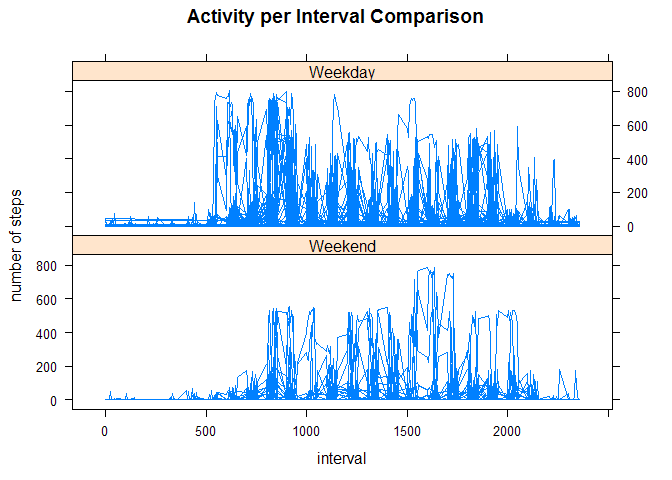
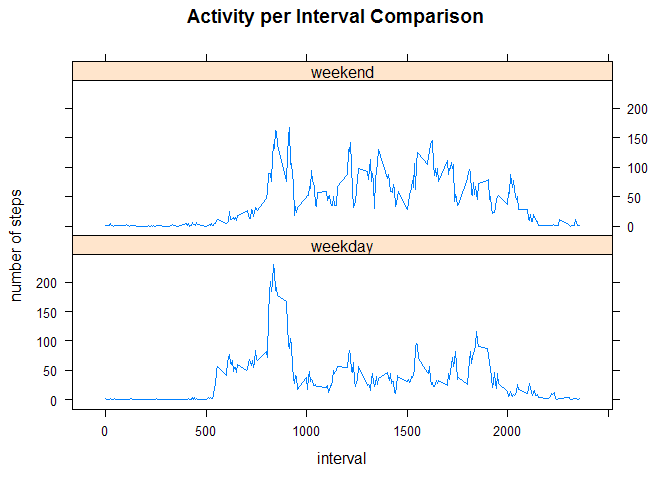
fixed an issue where my comparison chart was comparing all steps, not averages

diff --git a/PA1_template.html b/PA1_template.html
@@ -233,8 +233,19 @@ activity$day&lt;-factor((weekdays(activity$date) %in% Myweekdays), levels=c(FALS
 </ol>
 <pre class="r"><code>library(lattice)
 ## Create the graph
-xyplot(steps ~ interval | day, activity, type='l', layout=c(1,2), ylab=&quot;number of steps&quot;, main=&quot;Activity per Interval Comparison&quot;)</code></pre>
[1 lines of base64/hex data omitted]
+by_day_factor&lt;-split(activity, activity$day)
+group_factor&lt;-group_by(by_day_factor$Weekend, interval)
+group_factor2&lt;-group_by(by_day_factor$Weekday, interval)
+weekendTrend&lt;-summarize_each(group_factor, funs(mean(.)))
+weekdayTrend&lt;-summarize_each(group_factor2, funs(mean(.)))
+weekdayTrend$date&lt;-NULL
+weekdayTrend$day&lt;-&quot;weekday&quot;
+weekendTrend$date&lt;-NULL
+weekendTrend$day&lt;-&quot;weekend&quot;
+WeekFactorAvg&lt;-rbind(weekdayTrend, weekendTrend)
+WeekFactorAvg$day&lt;-as.factor(WeekFactorAvg$day)
+xyplot(steps ~ interval | day, WeekFactorAvg, type='l', layout=c(1,2), ylab=&quot;number of steps&quot;, main=&quot;Activity per Interval Comparison&quot;)</code></pre>
[1 lines of base64/hex data omitted]
 </div>
 
 

diff --git a/PA1_template.md b/PA1_template.md
@@ -143,7 +143,18 @@ activity$day<-factor((weekdays(activity$date) %in% Myweekdays), levels=c(FALSE, 
 ```r
 library(lattice)
 ## Create the graph
-xyplot(steps ~ interval | day, activity, type='l', layout=c(1,2), ylab="number of steps", main="Activity per Interval Comparison")
+by_day_factor<-split(activity, activity$day)
+group_factor<-group_by(by_day_factor$Weekend, interval)
+group_factor2<-group_by(by_day_factor$Weekday, interval)
+weekendTrend<-summarize_each(group_factor, funs(mean(.)))
+weekdayTrend<-summarize_each(group_factor2, funs(mean(.)))
+weekdayTrend$date<-NULL
+weekdayTrend$day<-"weekday"
+weekendTrend$date<-NULL
+weekendTrend$day<-"weekend"
+WeekFactorAvg<-rbind(weekdayTrend, weekendTrend)
+WeekFactorAvg$day<-as.factor(WeekFactorAvg$day)
+xyplot(steps ~ interval | day, WeekFactorAvg, type='l', layout=c(1,2), ylab="number of steps", main="Activity per Interval Comparison")
 ```
 
 ![](PA1_template_files/figure-html/latticecharts-1.png)
